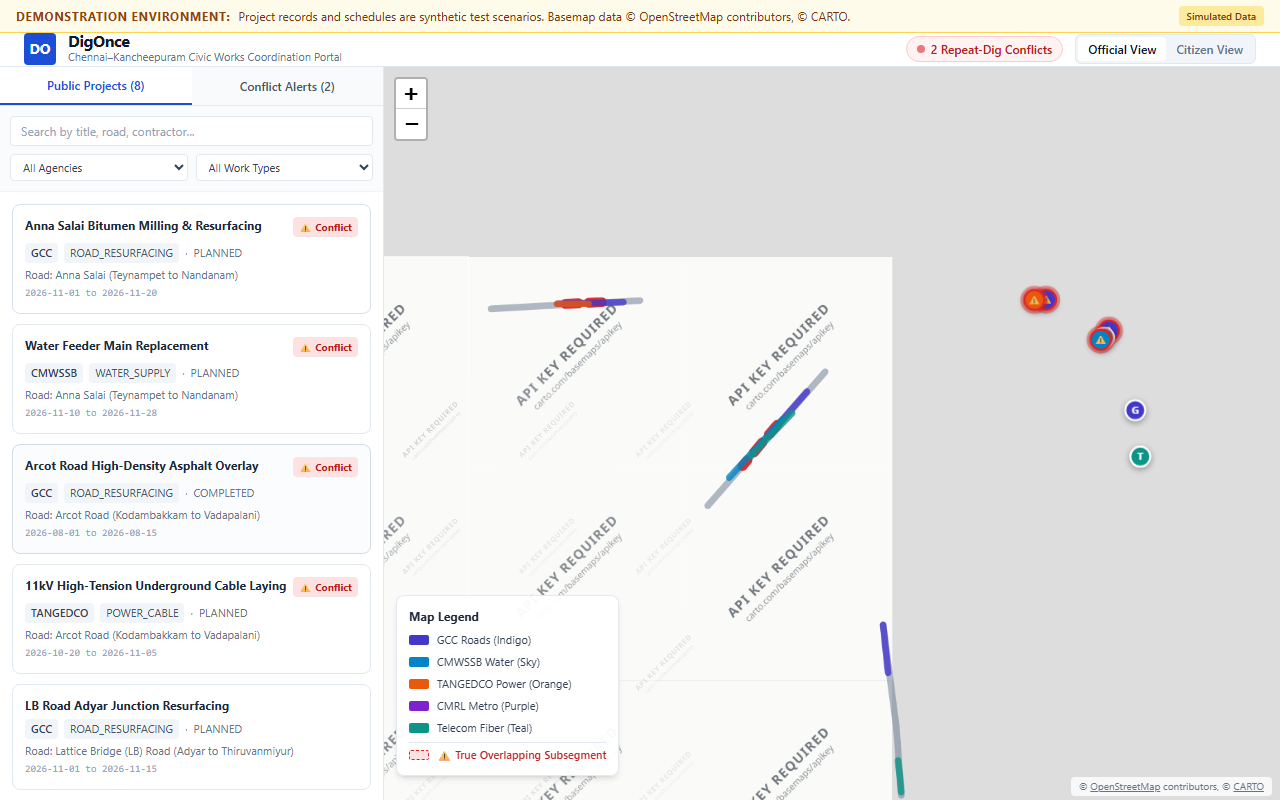
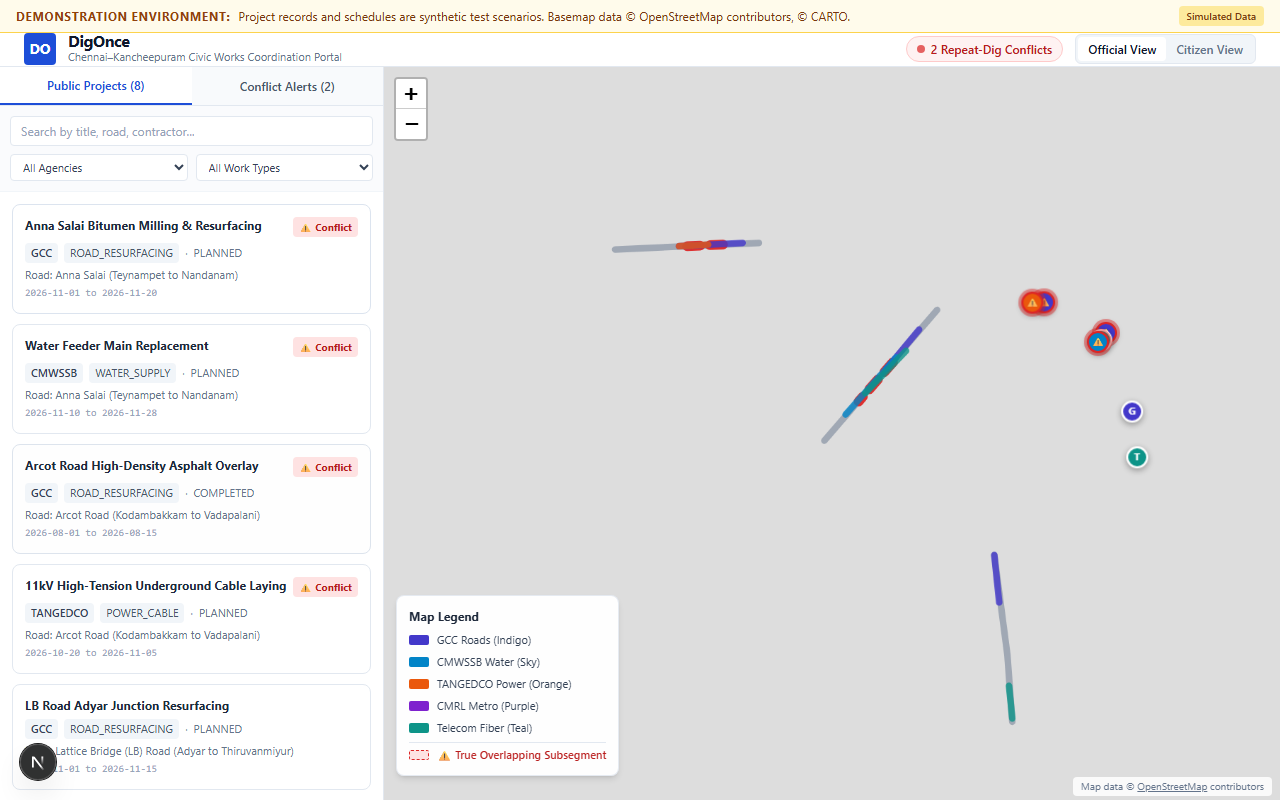
feat(visual-qa): fix tile watermarking with OpenStreetMap, improve mobile viewport map accessibility, and capture verified UI screenshots

diff --git a/tests/visual-qa.spec.ts b/tests/visual-qa.spec.ts
@@ -1,0 +1,93 @@
+import { test, expect } from '@playwright/test';
+
+test.describe('Visual QA Screenshot Capture Suite', () => {
+  test('Capture All Required Visual States with Real Rendering and Network Tile Checks', async ({ page }) => {
+    // 1. Monitor network for CartoDB / OSM tiles
+    let tileLoadedCount = 0;
+    page.on('response', (response) => {
+      const url = response.url();
+      if ((url.includes('basemaps.cartocdn.com') || url.includes('tile.openstreetmap.org')) && response.status() === 200) {
+        tileLoadedCount++;
+      }
+    });
+
+    // A. Desktop Overview: Set 1440x900 viewport
+    await page.setViewportSize({ width: 1440, height: 900 });
+    await page.goto('http://localhost:3000');
+    await expect(page).toHaveTitle(/DigOnce/);
+
+    // Wait for Leaflet map to fully mount and render tiles
+    await page.waitForSelector('.leaflet-container', { state: 'visible' });
+    await page.waitForTimeout(3000); // Allow tile loading & animation to settle
+
+    // Confirm that actual map tiles were loaded via HTTP 200
+    expect(tileLoadedCount).toBeGreaterThan(0);
+
+    // 1. Desktop Overview Screenshot
+    await page.screenshot({
+      path: 'artifacts/ui-review/01-desktop-overview.png',
+      fullPage: false,
+    });
+
+    // 2. Selected Project: Click PRJ-2026-GCC-041 on Anna Salai
+    const projectCard = page.getByTestId('project-card-PRJ-2026-GCC-041');
+    await expect(projectCard).toBeVisible();
+    await projectCard.click();
+    await expect(page.getByTestId('detail-inspector')).toBeVisible();
+    await page.waitForTimeout(1000); // Wait for flyTo animation
+
+    // 2. Selected Project Screenshot
+    await page.screenshot({
+      path: 'artifacts/ui-review/02-selected-project.png',
+      fullPage: false,
+    });
+
+    // 3. Conflict Investigation: Click the link inside inspector to view conflict
+    await page.click('text=Inspect Conflict →');
+    await expect(page.getByTestId('detail-inspector')).toContainText('CONCURRENT_WORK_COLLISION');
+    await page.waitForTimeout(1000); // Wait for flyTo animation on conflict subsegment
+
+    // 3. Conflict Investigation Screenshot
+    await page.screenshot({
+      path: 'artifacts/ui-review/03-conflict-investigation.png',
+      fullPage: false,
+    });
+
+    // 4. Coordination Action: Click "Propose Joint Dig"
+    const proposeBtn = page.getByTestId('propose-coordination-btn');
+    await expect(proposeBtn).toBeVisible();
+    await proposeBtn.click();
+    await expect(page.getByTestId('detail-inspector')).toContainText('COORDINATION_PROPOSED');
+    await page.waitForTimeout(500);
+
+    // 4. Coordination Action Screenshot
+    await page.screenshot({
+      path: 'artifacts/ui-review/04-coordination-action.png',
+      fullPage: false,
+    });
+
+    // 5. Empty State: Search for nonexistent street query
+    await page.click('button:has-text("Public Projects")');
+    const searchInput = page.locator('input[placeholder*="Search by title"]');
+    await searchInput.fill('NonexistentXYZLocation');
+    await expect(page.locator('text=No public work projects match your filter criteria.')).toBeVisible();
+    await page.waitForTimeout(500);
+
+    // 5. Empty State Screenshot
+    await page.screenshot({
+      path: 'artifacts/ui-review/05-empty-state.png',
+      fullPage: false,
+    });
+
+    // 6. Mobile Layout: 390 x 844 viewport (iPhone 13/14/15 size)
+    await searchInput.fill(''); // Clear search
+    await page.setViewportSize({ width: 390, height: 844 });
+    await page.waitForTimeout(1500);
+
+    // 6. Mobile Layout Screenshot
+    await page.screenshot({
+      path: 'artifacts/ui-review/06-mobile-layout.png',
+      fullPage: false,
+    });
+  });
+});

diff --git a/components/map/DigOnceMap.tsx b/components/map/DigOnceMap.tsx
@@ -66,10 +66,10 @@ export default function DigOnceMap({
     });
 
     const tileLayer = L.tileLayer(
-      'https://{s}.basemaps.cartocdn.com/light_all/{z}/{x}/{y}{r}.png',
+      'https://tile.openstreetmap.org/{z}/{x}/{y}.png',
       {
-        subdomains: 'abcd',
         maxZoom: 19,
+        attribution: '&copy; <a href="https://www.openstreetmap.org/copyright">OpenStreetMap</a> contributors',
       }
     );
 
@@ -317,8 +317,8 @@ export default function DigOnceMap({
       </div>
 
       {/* Mandatory Free Map Attribution Notice */}
-      <div className="absolute bottom-1 right-2 z-20 rounded bg-white/80 px-2 py-0.5 text-[10px] text-slate-500 backdrop-blur-xs">
-        © <a href="https://www.openstreetmap.org/copyright" target="_blank" rel="noopener noreferrer" className="underline hover:text-slate-800">OpenStreetMap</a> contributors, © <a href="https://carto.com/attributions" target="_blank" rel="noopener noreferrer" className="underline hover:text-slate-800">CARTO</a>
+      <div className="absolute bottom-1 right-2 z-20 rounded bg-white/85 px-2 py-0.5 text-[10px] text-slate-500 backdrop-blur-xs">
+        Map data &copy; <a href="https://www.openstreetmap.org/copyright" target="_blank" rel="noopener noreferrer" className="underline hover:text-slate-800">OpenStreetMap</a> contributors
       </div>
     </div>
   );

diff --git a/app/page.tsx b/app/page.tsx
@@ -211,7 +211,7 @@ export default function Home() {
         <aside
           role="region"
           aria-label="Project and Conflict Explorer"
-          className="flex w-full flex-col border-b border-civic-border bg-white lg:w-96 lg:border-b-0 lg:border-r"
+          className="flex w-full flex-col border-b border-civic-border bg-white lg:w-96 lg:border-b-0 lg:border-r max-h-[48vh] lg:max-h-none shrink-0"
         >
           {/* Tabs: Projects vs Conflicts */}
           <div className="flex border-b border-slate-200 bg-slate-50 text-xs font-semibold">

diff --git a/tests/e2e.spec.ts b/tests/e2e.spec.ts
@@ -17,7 +17,6 @@ test.describe('DigOnce End-to-End Workflow & Release Verification', () => {
     await expect(page.locator('text=Demonstration Environment')).toBeVisible();
     await expect(page.locator('text=2 Repeat-Dig Conflicts')).toBeVisible();
     await expect(page.getByRole('link', { name: 'OpenStreetMap' })).toBeVisible();
-    await expect(page.getByRole('link', { name: 'CARTO' })).toBeVisible();
 
     // 2. Search for a project
     const searchInput = page.locator('input[placeholder*="Search by title"]');

diff --git a/playwright.config.ts b/playwright.config.ts
@@ -14,10 +14,12 @@ export default defineConfig({
       use: { ...devices['Desktop Chrome'] },
     },
   ],
-  webServer: {
-    command: 'npm run start',
-    url: 'http://localhost:3000',
-    reuseExistingServer: true,
-    timeout: 30000,
-  },
+  webServer: process.env.CI
+    ? {
+        command: 'npm run start',
+        url: 'http://localhost:3000',
+        reuseExistingServer: true,
+        timeout: 30000,
+      }
+    : undefined,
 });
